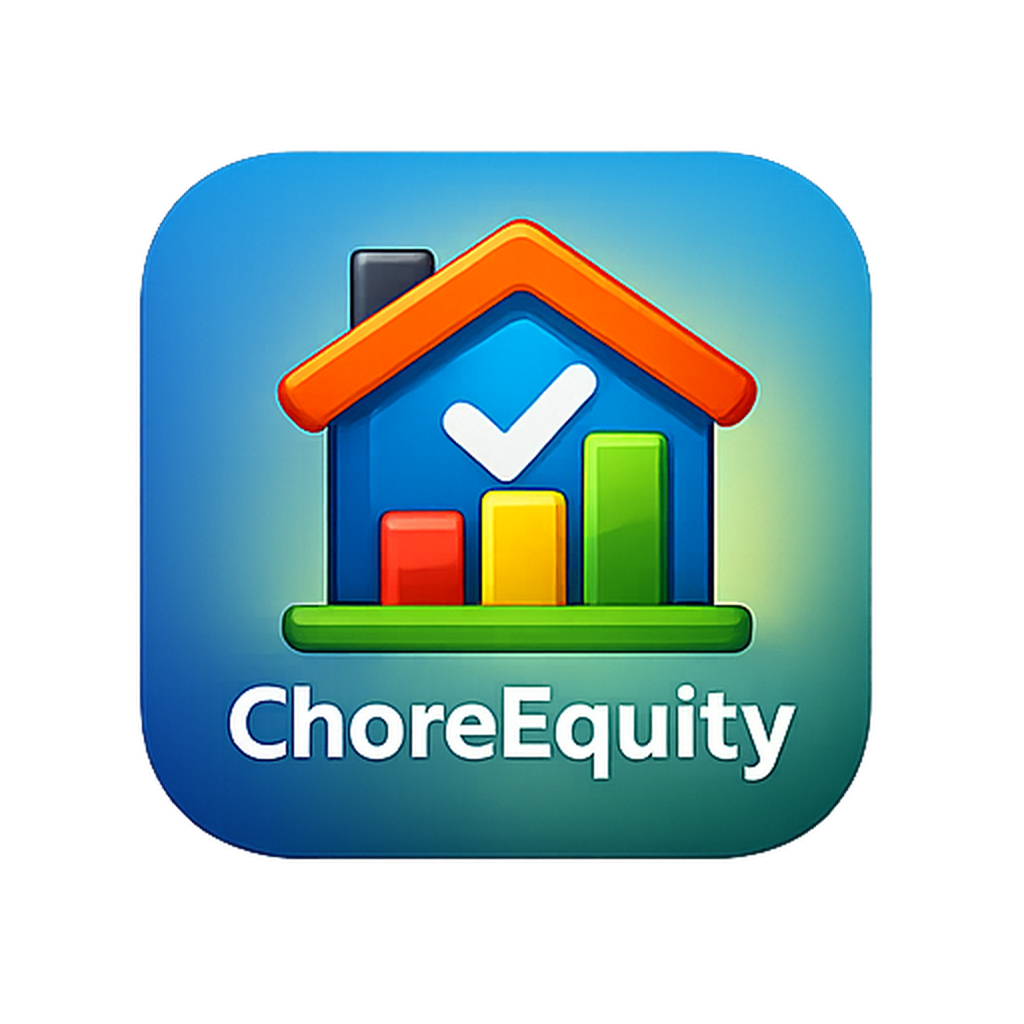
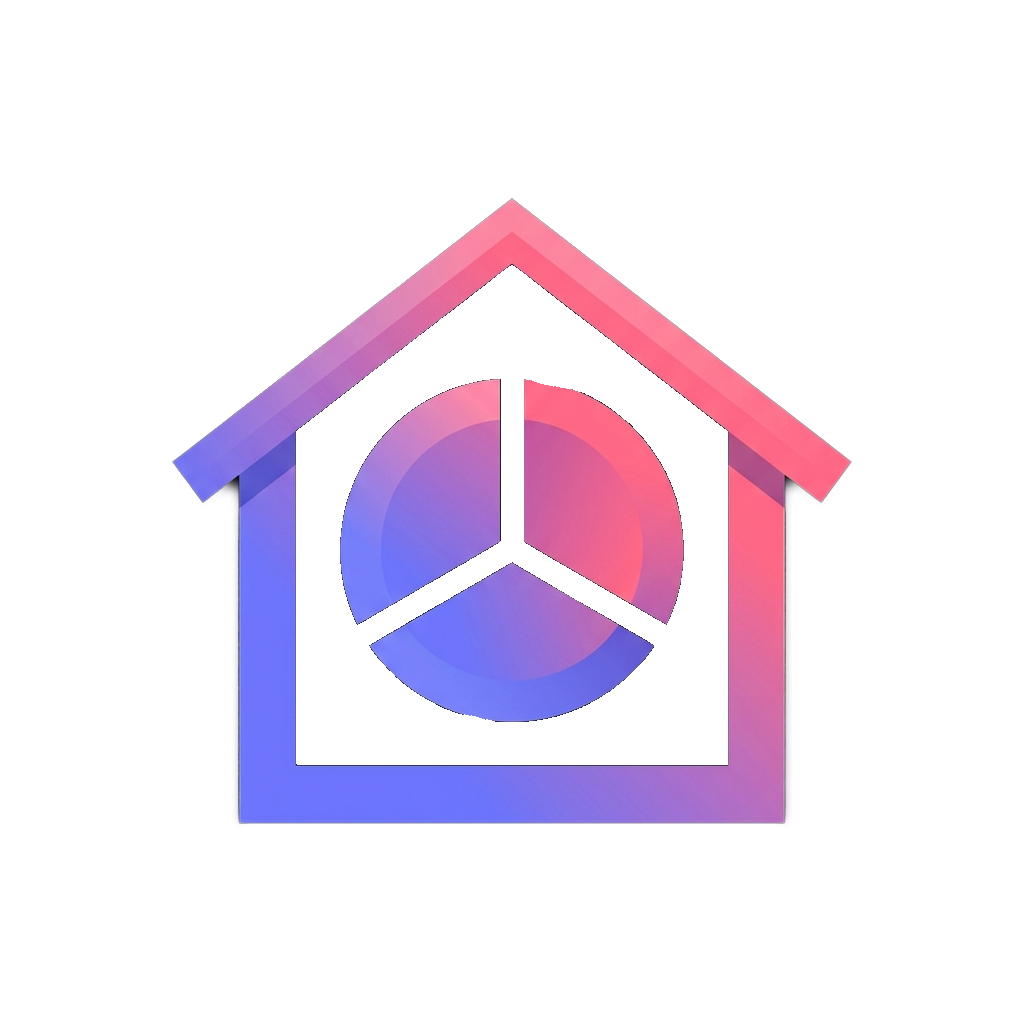
Changed CE to FE

diff --git a/chore-equity.html b/chore-equity.html
@@ -3,7 +3,7 @@
 <head>
     <meta charset="UTF-8">
     <meta name="viewport" content="width=device-width, initial-scale=1.0">
-    <title>ChoreEquity | Decoded Lemon</title>
+    <title>Family Equity | Decoded Lemon</title>
     <link rel="stylesheet" href="css/modern.css">
     <link rel="stylesheet" href="css/chore-equity.css">
     <link rel="preconnect" href="https://fonts.googleapis.com">
@@ -38,16 +38,16 @@
     <header class="case-hero">
         <div class="container">
             <div class="case-hero-logo">
-                <img src="assets/chore-equity/icon.png" alt="ChoreEquity Icon">
+                <img src="assets/chore-equity/icon.png" alt="Family Equity Icon">
             </div>
-            <h1>Chore <span>Equity</span></h1>
-            <p>Bringing radical transparency and fairness to household labor through technology.</p>
+            <h1>Family <span>Equity</span></h1>
+            <p>Your whole household, sorted. Chores, kids, pets, meals and shopping — fairly shared, in one app.</p>
             <div class="store-badges" style="justify-content: center;">
-                <a href="https://itunes.apple.com/WebObjects/MZStore.woa/wa/viewSoftware?id=6775959277" class="store-badge" target="_blank" rel="noopener noreferrer" aria-label="Download ChoreEquity on the App Store">
+                <a href="https://itunes.apple.com/WebObjects/MZStore.woa/wa/viewSoftware?id=6775959277" class="store-badge" target="_blank" rel="noopener noreferrer" aria-label="Download Family Equity on the App Store">
                     <svg width="22" height="22" viewBox="0 0 24 24" fill="#fff" xmlns="http://www.w3.org/2000/svg" aria-hidden="true"><path d="M17.05 12.04c-.03-2.6 2.12-3.85 2.22-3.91-1.21-1.77-3.09-2.01-3.76-2.04-1.6-.16-3.12.94-3.93.94-.81 0-2.06-.92-3.39-.89-1.74.03-3.35 1.01-4.25 2.57-1.81 3.14-.46 7.79 1.3 10.34.86 1.25 1.89 2.65 3.23 2.6 1.3-.05 1.79-.84 3.36-.84 1.57 0 2.01.84 3.39.81 1.4-.02 2.29-1.27 3.15-2.53.99-1.45 1.4-2.86 1.42-2.93-.03-.01-2.72-1.04-2.75-4.13zM14.5 4.5c.71-.86 1.19-2.06 1.06-3.25-1.02.04-2.26.68-2.99 1.54-.66.76-1.23 1.98-1.08 3.15 1.14.09 2.3-.58 3.01-1.44z"/></svg>
                     <span class="store-badge-text"><small>Download on the</small><strong>App Store</strong></span>
                 </a>
-                <a href="https://play.google.com/store/apps/details?id=ltd.decoded.ChoreEquity&pcampaignid=web_share" class="store-badge" target="_blank" rel="noopener noreferrer" aria-label="Get ChoreEquity on Google Play">
+                <a href="https://play.google.com/store/apps/details?id=ltd.decoded.ChoreEquity&pcampaignid=web_share" class="store-badge" target="_blank" rel="noopener noreferrer" aria-label="Get Family Equity on Google Play">
                     <svg width="20" height="22" viewBox="0 0 24 24" xmlns="http://www.w3.org/2000/svg" aria-hidden="true"><path d="M3.6 2.3c-.3.3-.5.8-.5 1.4v16.6c0 .6.2 1.1.5 1.4l.1.1L13 12.1v-.2L3.7 2.2l-.1.1z" fill="#00d2ff"/><path d="M16.3 15.2l-3.3-3.1v-.2l3.3-3.1.1.1 3.9 2.2c1.1.6 1.1 1.6 0 2.2l-3.9 2.2-.1-.3z" fill="#ffce00"/><path d="M16.4 15.1L13 12 3.6 21.7c.4.4 1 .4 1.7.1l11.1-6.3" fill="#ff3b30"/><path d="M16.4 8.9L5.3 2.6c-.7-.4-1.3-.3-1.7.1L13 12l3.4-3.1z" fill="#00e676"/></svg>
                     <span class="store-badge-text"><small>Get it on</small><strong>Google Play</strong></span>
                 </a>
@@ -60,59 +60,44 @@
             <div class="content-wrapper">
                 <div class="feature-block">
                     <div>
-                        <h2>Radical Transparency</h2>
-                        <p>ChoreEquity is a modern, real-time mobile app designed to eliminate relationship friction by bringing radical transparency and fairness to household labor.</p>
+                        <h2>Your whole household, in one app</h2>
+                        <p>Family Equity brings everything your home runs on — chores, kids, pets, meals and the shopping list — into one shared, real-time app the whole household can see. Set up in seconds and invite your partner, housemates or family with a code or QR scan.</p>
                     </div>
                     <div class="case-screenshot">
-                        <img src="assets/chore-equity/screenshots/01-Screenshot_20260603_084517_ChoreEquity-with-copy.png" alt="ChoreEquity Welcome">
+                        <img src="assets/chore-equity/screenshots/family-equity-1.png" alt="Family Equity welcome screen">
                     </div>
                 </div>
-                
+
                 <div class="feature-block reverse">
                     <div class="case-screenshot">
-                        <img src="assets/chore-equity/screenshots/02-Screenshot_20260603_084600_ChoreEquity-with-copy.png" alt="ChoreEquity List">
+                        <img src="assets/chore-equity/screenshots/family-equity-2.png" alt="Family Equity fair chores and equity pie">
                     </div>
                     <div>
-                        <h3>The "Friction Index"</h3>
-                        <p>Unlike traditional to-do lists that just count the number of chores completed, ChoreEquity uses a unique "Friction Index" to assign point values based on the time, effort, and difficulty of each task—acknowledging that deep-cleaning a bathroom requires more effort than hitting start on a dishwasher.</p>
+                        <h3>Fair by design</h3>
+                        <p>Chores earn points based on real effort — a quick tidy and a deep clean count differently — and a live equity pie shows exactly how the week's workload is splitting between everyone. A weekly leaderboard keeps it friendly. No nagging, no mental scorekeeping.</p>
                     </div>
                 </div>
 
                 <div class="feature-block">
                     <div>
-                        <h3>Real-Time Equity Dashboard</h3>
-                        <p>Built with seamless, cross-platform real-time syncing, the app features a shared "Equity Dashboard" that visually tracks the balance of labor between partners or roommates over the course of the week.</p>
+                        <h3>Kids &amp; pets, sorted</h3>
+                        <p>Keep kids and pets in one place — daily routines, school pickups, vitamins, feeding times, health notes and important dates — all shared with everyone who needs them. Assign chores to kids and check them off on their behalf.</p>
                     </div>
                     <div class="case-screenshot">
-                        <img src="assets/chore-equity/screenshots/03-Screenshot_20260603_085025_ChoreEquity-with-copy.png" alt="ChoreEquity Dashboard">
+                        <img src="assets/chore-equity/screenshots/family-equity-3.png" alt="Family Equity kids and pets management">
                     </div>
                 </div>
 
                 <div class="feature-block reverse">
                     <div class="case-screenshot">
-                        <img src="assets/chore-equity/screenshots/04-Screenshot_20260603_085040_ChoreEquity-with-copy.png" alt="ChoreEquity Quick Log">
+                        <img src="assets/chore-equity/screenshots/family-equity-4.png" alt="Family Equity meal planner and shopping list">
                     </div>
                     <div>
-                        <h3>Zero Nagging Required</h3>
-                        <p>With a quick-log interface and zero nagging required, it helps households stay aligned, appreciated, and perfectly balanced.</p>
+                        <h3>Plan meals, shop together</h3>
+                        <p>Plan the week's meals, import a recipe straight from any link, and push the ingredients to one shared shopping list that updates for everyone in real time. Beautiful light &amp; dark themes follow your system, and your data stays private to your household.</p>
                     </div>
                 </div>
 
-                <div class="screenshot-container">
-                    <h3>App Experience</h3>
-                    <div class="screenshot-grid">
-                        <div class="screenshot-item">
-                            <img src="assets/chore-equity/screenshots/05-Screenshot_20260603_085058_ChoreEquity-with-copy.png" alt="ChoreEquity Screenshot 5">
-                        </div>
-                        <div class="screenshot-item">
-                            <img src="assets/chore-equity/screenshots/06-Screenshot_20260603_085228_ChoreEquity-with-copy.png" alt="ChoreEquity Screenshot 6">
-                        </div>
-                        <div class="screenshot-item">
-                            <img src="assets/chore-equity/screenshots/07-Screenshot_20260603_085238_ChoreEquity-with-copy.png" alt="ChoreEquity Screenshot 7">
-                        </div>
-                    </div>
-                </div>
-                
                 <div style="margin-top: 3rem;">
                     <a href="/" class="btn btn-ghost">Back to Projects</a>
                     <a href="chore-equity-terms.html" class="btn btn-ghost" style="margin-left: 1rem;">Terms and Conditions</a>
@@ -140,7 +125,7 @@
                 </div>
                 <div class="footer-col">
                     <h4>Legal</h4>
-                    <a href="chore-equity-terms.html">ChoreEquity Terms</a>
+                    <a href="chore-equity-terms.html">Family Equity Terms</a>
                     <a href="papadipark-legal.html">PapadiPark Privacy &amp; Terms</a>
                 </div>
             </div>

diff --git a/chore-equity-terms.html b/chore-equity-terms.html
@@ -3,7 +3,7 @@
 <head>
     <meta charset="UTF-8">
     <meta name="viewport" content="width=device-width, initial-scale=1.0">
-    <title>Terms and Conditions | ChoreEquity</title>
+    <title>Terms and Conditions | Family Equity</title>
     <link rel="stylesheet" href="css/modern.css">
     <link rel="preconnect" href="https://fonts.googleapis.com">
     <link rel="preconnect" href="https://fonts.gstatic.com" crossorigin>
@@ -36,24 +36,24 @@
     <main class="content-section">
         <div class="container">
             <div class="content-wrapper">
-                <p>Welcome to ChoreEquity ("the App"). These Terms and Conditions ("Terms") govern your access to and use of the mobile application, services, and backend systems provided by ChoreEquity ("we," "us," or "our").</p>
+                <p>Welcome to Family Equity ("the App"). These Terms and Conditions ("Terms") govern your access to and use of the mobile application, services, and backend systems provided by Family Equity ("we," "us," or "our").</p>
                 <p>By downloading, installing, or using the App, you ("the User") agree to be bound by these Terms. If you do not agree to these Terms, you must immediately uninstall the App and cease all use.</p>
 
                 <h2>1. Eligibility and Account Registration</h2>
-                <p><strong>1.1. Registration:</strong> To use the collaborative features of ChoreEquity, you and your household partner(s) must register for an account using a valid email address. You agree to provide accurate, current, and complete information during registration.</p>
+                <p><strong>1.1. Registration:</strong> To use the collaborative features of Family Equity, you and your household partner(s) must register for an account using a valid email address. You agree to provide accurate, current, and complete information during registration.</p>
                 <p><strong>1.2. Account Security:</strong> You are entirely responsible for maintaining the confidentiality of your account credentials (passwords or authentication tokens processed via Supabase). Any activity occurring under your account is your sole responsibility.</p>
                 <p><strong>1.3. Age Restriction:</strong> The App is intended for users who are at least 18 years of age. If you are under 18, you may only use the App with the direct supervision and consent of a parent or legal guardian.</p>
 
                 <h2>2. Nature of Service and App Data</h2>
-                <p><strong>2.1. Collaborative Tracking:</strong> ChoreEquity provides a digital platform to visualize, log, and calculate household chore distribution using a custom point-weighting framework.</p>
-                <p><strong>2.2. User-Generated Content:</strong> Any chores, tasks, names, or logging entries you input remain your data. However, by uploading this data, you grant ChoreEquity a technical license to host, store, and sync this data via our cloud infrastructure (Supabase) solely to provide the service to you and your linked household members.</p>
+                <p><strong>2.1. Collaborative Tracking:</strong> Family Equity provides a digital platform for managing a shared household — including chore distribution with a custom point-weighting framework, children's routines and information, pet care, meal planning, and a shared shopping list.</p>
+                <p><strong>2.2. User-Generated Content:</strong> Any chores, tasks, names, or logging entries you input remain your data. However, by uploading this data, you grant Family Equity a technical license to host, store, and sync this data via our cloud infrastructure (Supabase) solely to provide the service to you and your linked household members.</p>
                 <p><strong>2.3. Data Deletion:</strong> You may request the absolute deletion of your account and associated household log history at any time through the in-app settings.</p>
 
                 <h2>3. Subscriptions, Payments, and Cancellations</h2>
-                <p><strong>3.1. In-App Purchases:</strong> Premium features (such as "ChoreEquity Pro") are processed strictly via Apple App Store In-App Purchases and Google Play Billing, facilitated by our third-party provider, RevenueCat.</p>
-                <p><strong>3.2. Merchant of Record:</strong> Apple Inc. or Google LLC acts as the Merchant of Record for all monetary transactions. ChoreEquity does not store, collect, or process your credit card or banking details directly.</p>
+                <p><strong>3.1. In-App Purchases:</strong> Premium features (such as "Family Equity Pro") are processed strictly via Apple App Store In-App Purchases and Google Play Billing, facilitated by our third-party provider, RevenueCat.</p>
+                <p><strong>3.2. Merchant of Record:</strong> Apple Inc. or Google LLC acts as the Merchant of Record for all monetary transactions. Family Equity does not store, collect, or process your credit card or banking details directly.</p>
                 <p><strong>3.3. Billing Cycles:</strong> Subscriptions are billed on a recurring monthly or annual basis, depending on your selection. Subscriptions automatically renew unless disabled via your Apple ID or Google Play Account settings at least 24 hours before the end of the current cycle.</p>
-                <p><strong>3.4. Refunds:</strong> All payment disputes, refunds, and subscription cancellations are subject to the respective terms and refund policies of the Apple App Store or Google Play Store. ChoreEquity cannot issue refunds directly to users.</p>
+                <p><strong>3.4. Refunds:</strong> All payment disputes, refunds, and subscription cancellations are subject to the respective terms and refund policies of the Apple App Store or Google Play Store. Family Equity cannot issue refunds directly to users.</p>
 
                 <h2>4. Acceptable Use and Restrictions</h2>
                 <p>You agree that you will not:</p>
@@ -64,8 +64,8 @@
                 </ul>
 
                 <h2>5. Limitation of Liability and "As-Is" Disclaimer</h2>
-                <p><strong>5.1. No Warranties:</strong> ChoreEquity is provided on an "AS IS" and "AS AVAILABLE" basis. We do not warrant that the real-time syncing will be uninterrupted, error-free, or 100% accurate at all times. Network connection drops or cloud provider maintenance (via Supabase or Expo) may temporarily impact performance.</p>
-                <p><strong>5.2. Limitation of Liability:</strong> To the maximum extent permitted by applicable law, ChoreEquity shall not be liable for any indirect, incidental, special, or consequential damages, including but not limited to loss of data, loss of household harmony, relationship disputes, or device malfunctions arising from the use of the App.</p>
+                <p><strong>5.1. No Warranties:</strong> Family Equity is provided on an "AS IS" and "AS AVAILABLE" basis. We do not warrant that the real-time syncing will be uninterrupted, error-free, or 100% accurate at all times. Network connection drops or cloud provider maintenance (via Supabase or Expo) may temporarily impact performance.</p>
+                <p><strong>5.2. Limitation of Liability:</strong> To the maximum extent permitted by applicable law, Family Equity shall not be liable for any indirect, incidental, special, or consequential damages, including but not limited to loss of data, loss of household harmony, relationship disputes, or device malfunctions arising from the use of the App.</p>
 
                 <h2>6. Privacy and Data Protection</h2>
                 <p>Your privacy is critical to us. The collection, processing, and real-time streaming of your account details, household configuration, and tracking history are strictly governed by our Privacy Policy, which complies with the Protection of Personal Information Act (POPIA) in South Africa and global privacy laws (GDPR/CCPA where applicable).</p>
@@ -81,7 +81,7 @@
                 <p>Email: <a href="mailto:[email redacted]" style="color: var(--primary-color);">[email redacted]</a></p>
 
                 <div style="margin-top: 3rem;">
-                    <a href="chore-equity.html" class="btn">Back to ChoreEquity</a>
+                    <a href="chore-equity.html" class="btn">Back to Family Equity</a>
                 </div>
             </div>
         </div>
@@ -97,7 +97,7 @@
                     <a href="https://www.instagram.com/decodedlemon">Instagram</a>
                     <a href="#">Twitter</a>
                     <a href="#">LinkedIn</a>
-                    <a href="chore-equity-terms.html">ChoreEquity Terms</a>
+                    <a href="chore-equity-terms.html">Family Equity Terms</a>
                 </div>
                 <div class="footer-contact">
                     <p>[email redacted]</p>

diff --git a/index.html b/index.html
@@ -141,7 +141,7 @@
 
                 <article class="project-card reveal">
                     <div class="project-img-wrap">
-                        <div class="project-img" style="background-image: url('assets/chore-equity/icon.png');" role="img" aria-label="ChoreEquity app icon"></div>
+                        <div class="project-img" style="background-image: url('assets/chore-equity/icon.png');" role="img" aria-label="Family Equity app icon"></div>
                     </div>
                     <div class="project-body">
                         <div class="project-tags">
@@ -149,8 +149,8 @@
                             <span class="tag">React Native</span>
                             <span class="tag">Real-time</span>
                         </div>
-                        <h3>ChoreEquity</h3>
-                        <p>A real-time mobile app that brings radical transparency and fairness to household labor — making contributions visible and eliminating relationship friction.</p>
+                        <h3>Family Equity</h3>
+                        <p>A real-time household manager that keeps chores, kids, pets, meals and the shopping list fairly shared — making everyone's contribution visible and eliminating friction.</p>
                         <a href="chore-equity.html" class="project-link">
                             View Case Study
                             <svg xmlns="http://www.w3.org/2000/svg" width="14" height="14" viewBox="0 0 24 24" fill="none" stroke="currentColor" stroke-width="2.5" stroke-linecap="round" stroke-linejoin="round"><line x1="5" y1="12" x2="19" y2="12"></line><polyline points="12 5 19 12 12 19"></polyline></svg>
@@ -289,7 +289,7 @@
                 </div>
                 <div class="footer-col">
                     <h4>Legal</h4>
-                    <a href="chore-equity-terms.html">ChoreEquity Terms</a>
+                    <a href="chore-equity-terms.html">Family Equity Terms</a>
                     <a href="papadipark-legal.html">PapadiPark Privacy &amp; Terms</a>
                     <a href="slingshot_privacy.html">Slingshot Defender Privacy</a>
                     <a href="homecell-privacy.html">HomeCellConnect Privacy</a>